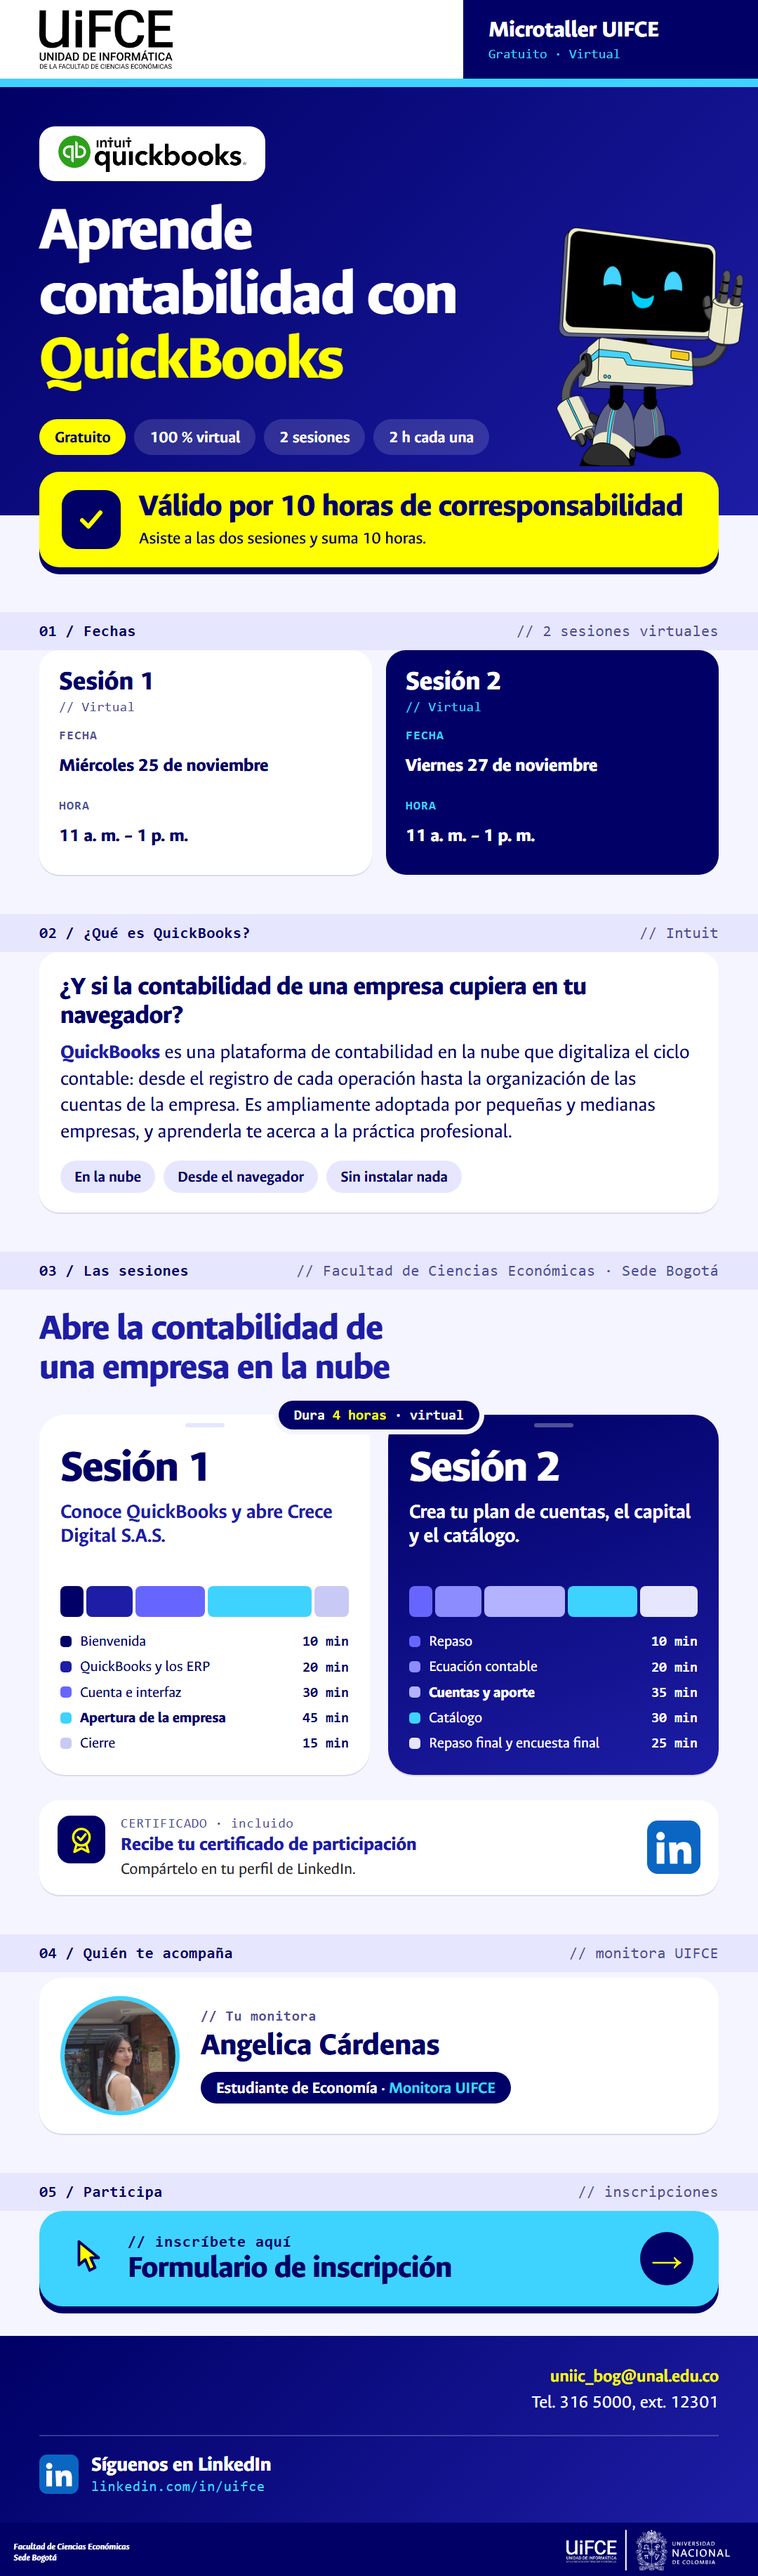
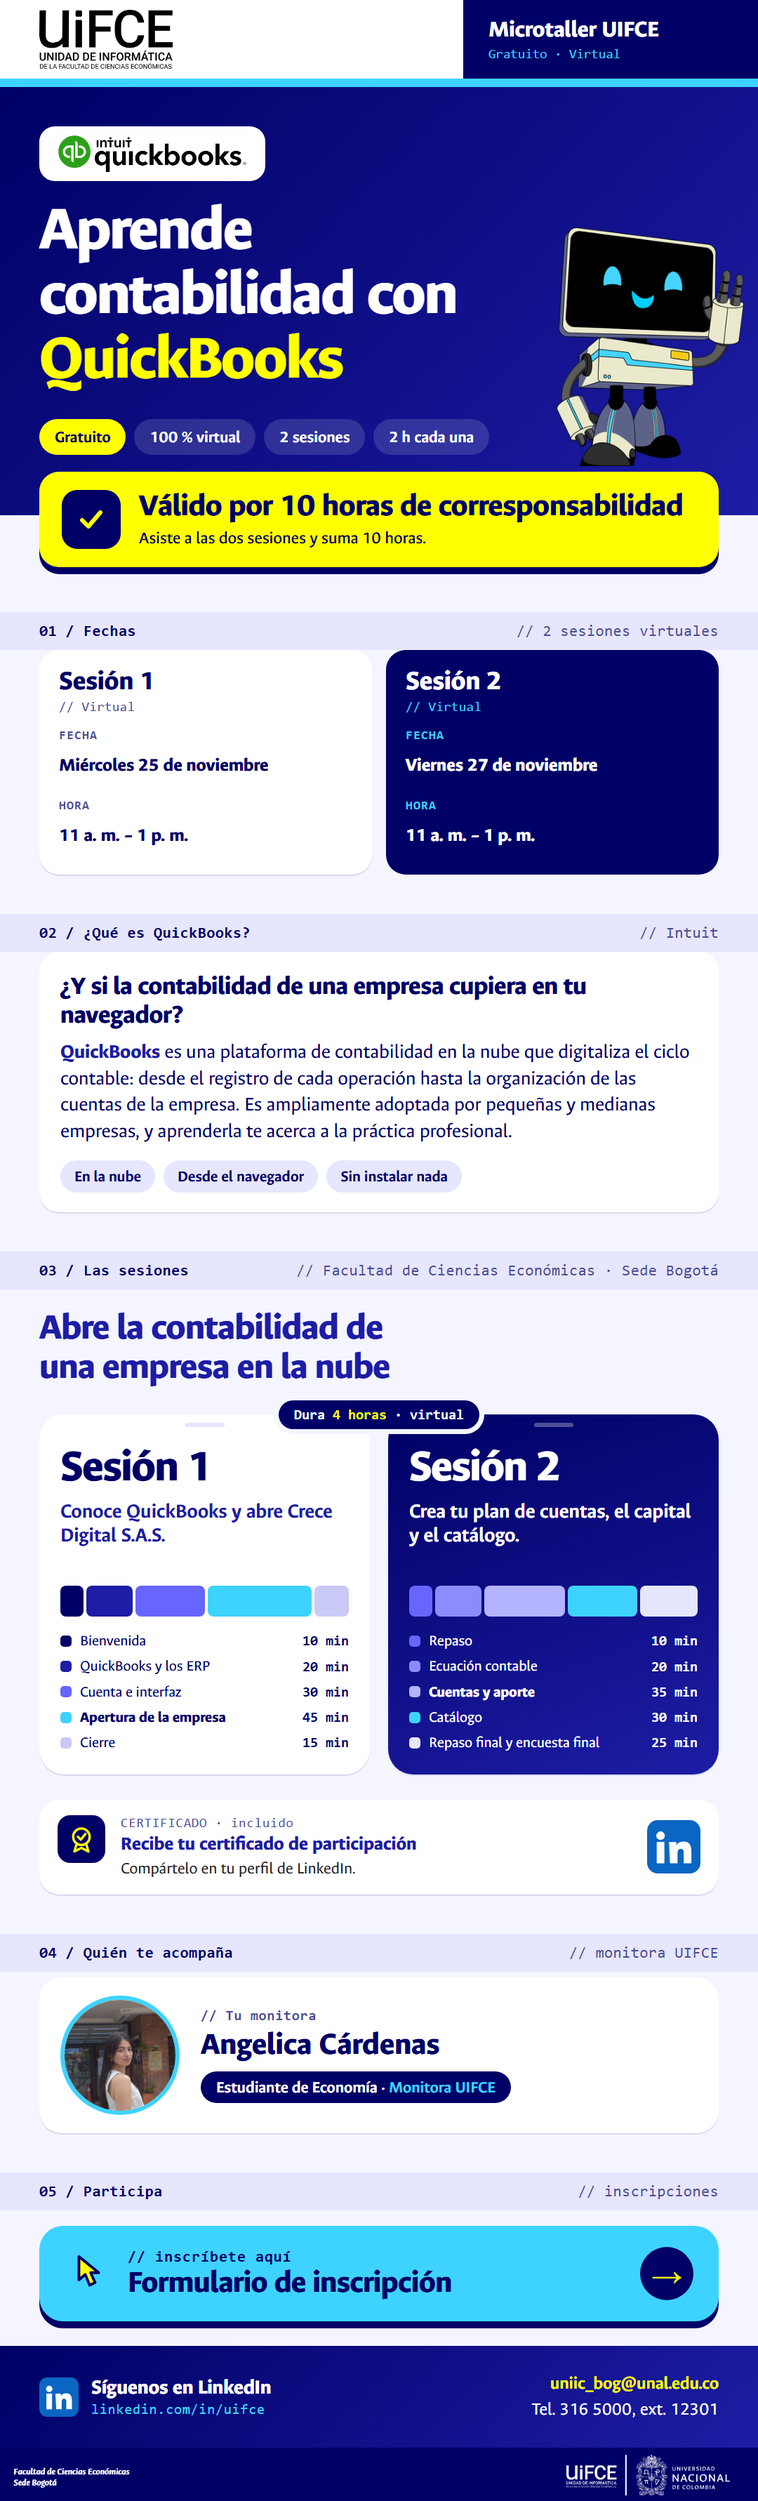
Propuesta 1: rediseña la franja final (LinkedIn y contacto en una fila) y ajusta altura a 3563 px

diff --git a/propuesta-1/index.html b/propuesta-1/index.html
@@ -22,7 +22,7 @@
     --mono:Consolas,'SFMono-Regular',Menlo,monospace;
   }
   *{box-sizing:border-box;margin:0;padding:0}
-  body{width:1080px;height:3669px;background:var(--canvas);font-family:var(--font);color:var(--navy);position:relative;overflow:hidden}
+  body{width:1080px;height:3563px;background:var(--canvas);font-family:var(--font);color:var(--navy);position:relative;overflow:hidden}
 
   /* ---------- Encabezado de boletín ---------- */
   .top{display:flex;height:112px;background:#fff}
@@ -146,13 +146,13 @@
   .intro .tags{display:flex;gap:12px;flex-wrap:wrap;margin-top:22px}
   .intro .tags span{background:var(--tint);color:var(--navy);border-radius:999px;padding:9px 20px;font-weight:700;font-size:23px}
 
-  .go{display:flex;align-items:center;gap:26px;background:var(--cyan);color:var(--navy);border-radius:34px;padding:30px 36px;box-shadow:0 10px 0 var(--navy);text-decoration:none}
+  .go{display:flex;align-items:center;gap:26px;margin-top:22px;background:var(--cyan);color:var(--navy);border-radius:34px;padding:30px 36px;box-shadow:0 10px 0 var(--navy);text-decoration:none}
   .go .gt{flex:1}.go small{display:block;font-family:var(--mono);font-size:22px;font-weight:700;letter-spacing:.04em}
   .go b{display:block;font-weight:800;font-size:46px;line-height:1.05;letter-spacing:-.01em}
   .go .ga{flex:none;width:76px;height:76px;border-radius:50%;background:var(--navy);color:var(--yellow);display:flex;align-items:center;justify-content:center;font-size:44px;font-weight:800}
   /* ---------- Pie navy ---------- */
   .banner{position:absolute;left:0;right:0;bottom:0;width:1080px;display:block}
-  .foot{position:absolute;left:0;right:0;bottom:76px;background:linear-gradient(135deg,var(--navy),var(--blue));color:#fff;padding:40px 56px 40px}
+  .foot{position:absolute;left:0;right:0;bottom:76px;background:linear-gradient(135deg,var(--navy),var(--blue));color:#fff;padding:36px 56px 36px}
   .foot .grid{display:grid;grid-template-columns:1fr 1fr;gap:24px 40px}
   .foot small{display:block;font-family:var(--mono);font-size:20px;font-weight:700;color:var(--cyan);letter-spacing:.04em}
   .foot span.t{display:block;font-size:26px;line-height:1.25;margin-top:6px}
@@ -268,10 +268,10 @@
 </section>
 
 <footer class="foot">
-  <div class="cta" style="margin-top:0;border-top:0;padding-top:0;justify-content:flex-end">
+  <div class="cta" style="margin-top:0;border-top:0;padding-top:0;justify-content:space-between">
+  <a class="follow" href="https://www.linkedin.com/in/uifce/" style="display:flex;align-items:center;gap:18px;color:#fff;text-decoration:none"><svg viewBox="0 0 50 50" role="img" aria-label="LinkedIn" style="width:56px;height:56px;flex:none"><rect width="50" height="50" rx="10" fill="#0A66C2"/><circle cx="12.6" cy="14.6" r="4" fill="#fff"/><rect x="9" y="20.5" width="7.2" height="20" fill="#fff"/><path d="M20.5 20.5h6.9v2.9c1.2-2 3.4-3.4 6.6-3.4 6 0 7.5 3.9 7.5 9.2v11.3h-7.2V30.8c0-2.2-.4-3.9-2.6-3.9-2.4 0-3.2 1.7-3.2 4.2v9.4h-7z" fill="#fff"/></svg><span style="font-size:30px;font-weight:800;line-height:1.1">Síguenos en LinkedIn<small style="display:block;font-family:var(--mono);font-size:20px;font-weight:400;color:var(--cyan);margin-top:4px">linkedin.com/in/uifce</small></span></a>
     <div class="contact"><strong>uniic_bog@unal.edu.co</strong><br>Tel. 316 5000, ext. 12301</div>
   </div>
-  <a class="follow" href="https://www.linkedin.com/in/uifce/" style="display:flex;align-items:center;gap:18px;margin-top:28px;padding-top:24px;border-top:2px solid rgba(255,255,255,.2);color:#fff;text-decoration:none"><svg viewBox="0 0 50 50" role="img" aria-label="LinkedIn" style="width:56px;height:56px;flex:none"><rect width="50" height="50" rx="10" fill="#0A66C2"/><circle cx="12.6" cy="14.6" r="4" fill="#fff"/><rect x="9" y="20.5" width="7.2" height="20" fill="#fff"/><path d="M20.5 20.5h6.9v2.9c1.2-2 3.4-3.4 6.6-3.4 6 0 7.5 3.9 7.5 9.2v11.3h-7.2V30.8c0-2.2-.4-3.9-2.6-3.9-2.4 0-3.2 1.7-3.2 4.2v9.4h-7z" fill="#fff"/></svg><span style="font-size:30px;font-weight:800;line-height:1.1">Síguenos en LinkedIn<small style="display:block;font-family:var(--mono);font-size:20px;font-weight:400;color:var(--cyan);margin-top:4px">linkedin.com/in/uifce</small></span></a>
 </footer>
 <img class="banner" src="assets/banner-unal-fce.png" alt="Facultad de Ciencias Económicas, Sede Bogotá · UIFCE · Universidad Nacional de Colombia">
 

diff --git a/index.html b/index.html
@@ -61,7 +61,7 @@
 </main>
 <script>
   var tabs=document.querySelectorAll('nav button'), panels={1:document.getElementById('p1'),2:document.getElementById('p2'),3:document.getElementById('p3'),4:document.getElementById('p4')};
-  var SIZES={1:[1080,3669],2:[1080,4296],3:[1080,3391],4:[1080,2877]};
+  var SIZES={1:[1080,3563],2:[1080,4296],3:[1080,3391],4:[1080,2877]};
   function fit(){
     var cw=document.documentElement.clientWidth;
     [1,2,3,4].forEach(function(n){
